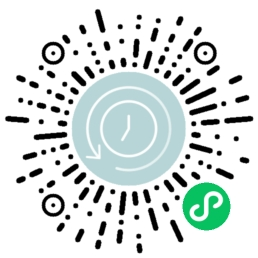
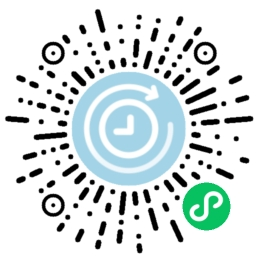
完成新的小程序icon替换

Changed region(s): [[0.3101, 0.3101, 0.6822, 0.6822]]

diff --git a/pages/home/index.vue b/pages/home/index.vue
@@ -4,11 +4,11 @@
         <view class="h-center mb20 mt30 fc-black f36">{{ time1 }} 星期{{ week }}</view>
         <view class="h-center mb60">
             <template v-for="(str, index) in time2" :key="index">
-                <view v-if="index != 2 && index != 5" style="width: 70rpx; height: 95rpx" class="p-r mrn10">
+                <view v-if="index != 2 && index != 5" style="width: 70rpx; height: 95rpx" class="p-r mrn10 fhyt">
                     <image class="p-center" src="/static/time-bg.svg" style="width: 70rpx; height: 95rpx"></image>
                     <view class="p-center fc-time f58">{{ str }}</view>
                 </view>
-                <view v-else class="p-r fc-black f60 pl8 pb6">{{ str }}</view>
+                <view v-else class="p-r fc-black f60 pl8 mrn2 mtn5">{{ str }}</view>
             </template>
         </view>
 

diff --git a/scss/main.scss b/scss/main.scss
@@ -2,6 +2,14 @@
 @import 'cover';
 @import 'base';
 
+@font-face {
+    font-family: "hyt";
+    src: url('/static/hyt.ttf') format('truetype');
+}
+.fhyt {
+    font-family: hyt;
+}
+
 view {
     box-sizing: border-box;
 }
